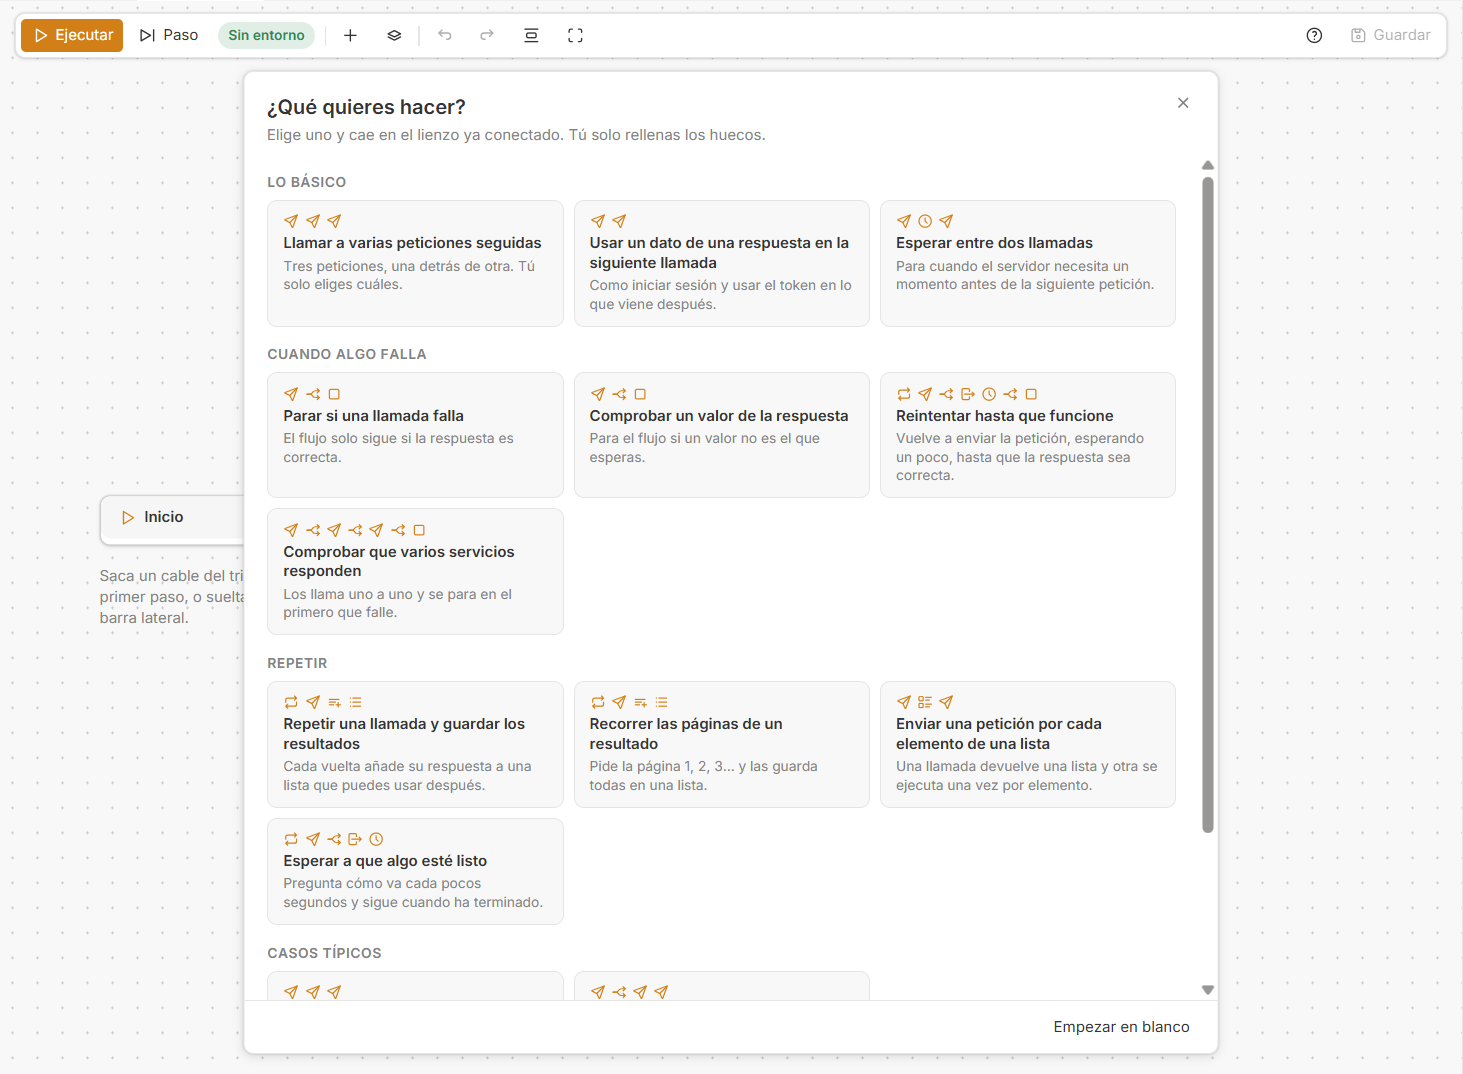
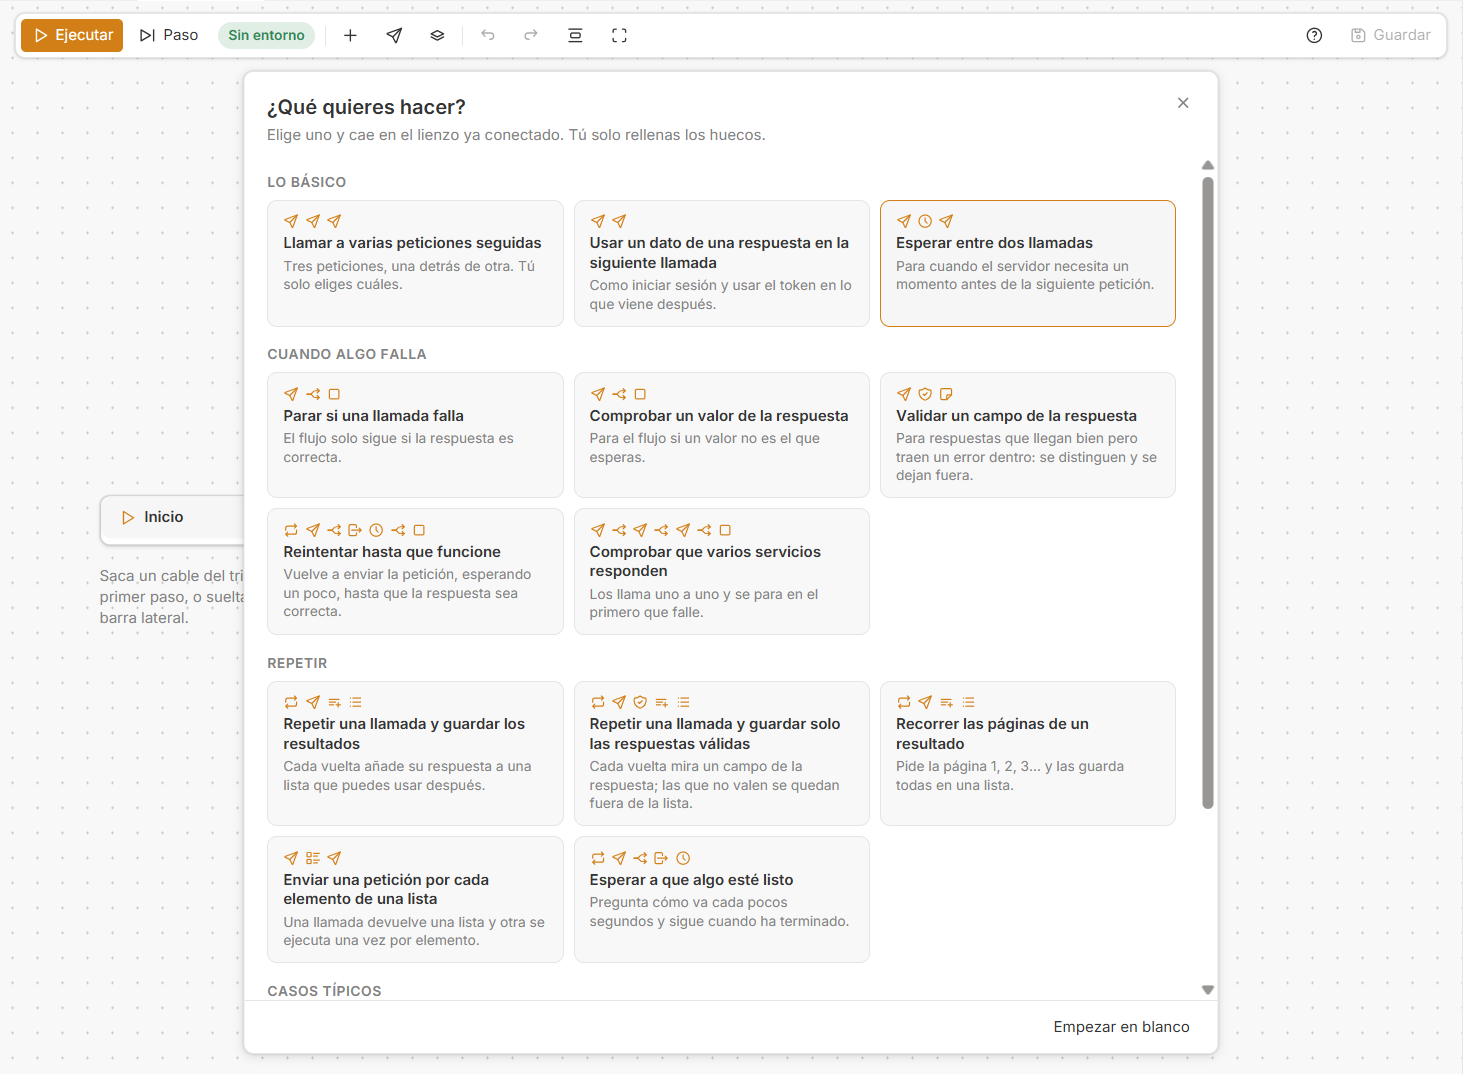
docs(flows): validar, añadir por clases, botón derecho y cables, con capturas nuevas

diff --git a/fork/docs/funciones/flows.md b/fork/docs/funciones/flows.md
@@ -10,9 +10,10 @@ Para empezar a usarla sin leer todo esto está la [guía rápida](flows-guia.md)
 
 1. En la sección **Flows**, el botón **+** pide un nombre y, si se quiere, una carpeta. El flow se abre en una pestaña con su pieza **Start** y pregunta **What do you want to do?**: una galería de bloques ya montados (ver [Los bloques](#los-bloques)). **Start from scratch** la cierra y deja el lienzo vacío.
 2. Añadir pasos, de cualquiera de estas formas:
-   - Tirar de un triángulo y soltar el cable en vacío: sale un selector con los pasos que encajan y las peticiones de la colección. El paso elegido nace ya conectado.
+   - Tirar de un triángulo y soltar el cable en vacío: sale la lista de lo que encaja ahí, y lo elegido nace ya conectado. La lista tiene tres pestañas, para no mezclar cosas distintas: **Steps** (los pasos), **Requests** (las peticiones de la colección, agrupadas por carpeta) y **Blocks** (abre la galería).
    - Arrastrar una petición desde la barra lateral al lienzo.
-   - Doble clic en vacío, o el botón **Add step**.
+   - Doble clic en vacío, o los botones **Add step** y **Add request** de la barra, que abren la misma lista en su pestaña.
+   - Clic con el botón derecho en vacío: un menú ofrece añadir un paso, una petición o un bloque donde está el puntero, y pegar si hay algo copiado.
 3. Conectar valores: cada petición enseña a la izquierda las variables que usa (`{{token}}`) y a la derecha lo que devuelve. Se une una salida con una entrada tirando un cable, o pulsando el cuadrado de la entrada y eligiendo el valor de la lista. En esa lista también se puede escribir el nombre de un campo que todavía no se ha visto (`envios.info.id`): se ofrece en cada paso que entrega campos y, al elegirlo, queda añadido. Con **Add a field** se añade un campo de la respuesta, también anidado, sin haber ejecutado antes (ver [Los campos de una respuesta](#los-campos-de-una-respuesta)).
 4. **Run** ejecuta el flow contra el entorno que se ve al lado del botón. **Step** ejecuta un paso y espera. Si una petición no se puede enviar, la ejecución se queda en ese paso y se retoma con **Continue** o con el botón del propio paso.
 5. **Save** guarda el flow en la colección. Mientras no se guarde, los cambios se conservan al cambiar de pestaña, hasta que se cierre la app.
@@ -24,6 +25,7 @@ Para empezar a usarla sin leer todo esto está la [guía rápida](flows-guia.md)
 | Start | Donde empieza el flow. Siempre hay uno y no se puede borrar |
 | Request | Envía una petición de la colección, igual que desde su pestaña: mismo entorno, mismos scripts y la respuesta queda también en la pestaña de la petición |
 | If | Elige un camino. Comprueba si la última respuesta fue correcta (2xx), si su código es uno concreto, o compara dos valores |
+| Validate | Mira un valor y decide si lo que llegó vale: *Not valid if* [valor] [comparación] [otro valor]. Sigue por **Valid** o por **Not valid**. Es para las respuestas que llegan con un 200 pero traen un código de error dentro: lo que cuelga de **Valid** no las ve. Dentro de un bucle, si de **Not valid** no cuelga nada, la vuelta termina y empieza la siguiente |
 | Repeat | Repite lo que cuelga de *On each round* las veces indicadas. Lo que repite queda dentro de un marco. La vuelta termina cuando el camino se acaba o cuando llega a *End of round* |
 | For each item | Como Repeat, pero da una vuelta por cada elemento de una lista: una lista del flow o un campo de una respuesta que sea una lista. En cada vuelta entrega el elemento (*Item*), los campos suyos que se añadan con *Add a field* y el número de vuelta |
 | Leave loop | Termina el bucle en el que está, aunque le queden vueltas, y el flow sigue por su *When finished*. Sirve para reintentar hasta que algo funcione o esperar a que un proceso termine. Fuera de un bucle lleva un aviso y el flow no se ejecuta |
@@ -57,15 +59,16 @@ Un bloque son varios pasos ya unidos que resuelven algo que se hace a menudo. Se
 |---|---|
 | Al abrir un flow vacío | La galería sale sola |
 | Botón **Blocks** de la barra | Abre y cierra la galería |
-| Selector de pasos | La entrada **Choose a block…** abre la galería, y el bloque elegido queda unido al cable que se había soltado |
+| Lista de añadir | La pestaña **Blocks** abre la galería, y el bloque elegido queda unido al cable que se había soltado |
+| Botón derecho en vacío | **Add a block** abre la galería y el bloque cae donde estaba el puntero |
 
 Bloques que trae Michi:
 
 | Grupo | Bloques |
 |---|---|
 | The basics | Llamar a varias peticiones seguidas · usar un valor de una respuesta en la siguiente llamada · esperar entre dos llamadas |
-| When something fails | Parar si una llamada falla · comprobar un valor de la respuesta · reintentar hasta que funcione · comprobar que varios servicios responden |
-| Repeating | Repetir una llamada y guardar los resultados · recorrer las páginas de un resultado · enviar una petición por cada elemento de una lista · esperar a que algo esté listo |
+| When something fails | Parar si una llamada falla · comprobar un valor de la respuesta · validar un campo de la respuesta · reintentar hasta que funcione · comprobar que varios servicios responden |
+| Repeating | Repetir una llamada y guardar los resultados · repetir una llamada y guardar solo las respuestas válidas · recorrer las páginas de un resultado · enviar una petición por cada elemento de una lista · esperar a que algo esté listo |
 | Typical cases | Crear, comprobar y borrar · crear solo si no existe |
 
 **La guía.** Un bloque de Michi abre abajo a la izquierda la lista de lo que falta por rellenar, en orden. Cada punto se tacha solo cuando el lienzo muestra que está hecho (se eligió la petición, se conectó el valor, se pulsó **Run**), y los que no se pueden comprobar se tachan a mano pulsando su número. El paso al que se refiere cada punto lleva ese número encima; pulsar el texto de un punto lleva a su paso. La guía se cierra con su aspa y no se guarda.
@@ -82,6 +85,9 @@ El botón **?** de la barra abre un panel con lo necesario para leer un flow: qu
 - Mientras se arrastra un cable solo se iluminan los puertos donde encaja.
 - Conectar un valor a un paso que no tiene orden propio ya hace que se ejecute después: no hace falta unir además los triángulos.
 - Los cables van siempre en ángulo recto. Se les da forma arrastrando cualquier tramo; tirar del primero o del último crea un codo nuevo. Doble clic en un cable lo devuelve a su forma normal.
+- Los cables a los que nadie ha dado forma se reparten solos: no van unos encima de otros y giran donde menos se cruzan. Donde dos se cruzan, uno se ve pasar por encima del otro.
+- **Colores.** Los cables de orden llevan el color principal; los que salen de **Yes** o **Valid** van en verde y los de **No** o **Not valid** en rojo. Cada paso que entrega valores tiene un color propio, que llevan sus cables, sus salidas y las entradas y fichas a las que llegan: así se ve de dónde viene un valor sin seguir la línea.
+- Al dejar el ratón sobre un paso sus cables se resaltan y los demás se atenúan. Seleccionar un paso o un cable también resalta los suyos.
 
 ### Moverse por el lienzo
 
@@ -89,6 +95,7 @@ El botón **?** de la barra abre un panel con lo necesario para leer un flow: qu
 |---|---|
 | Seleccionar varios pasos | Arrastrar sobre el fondo, o `Ctrl` + clic |
 | Mover el lienzo | Arrastrar con el botón derecho o central, o `Alt` + arrastrar |
+| Añadir donde está el puntero | Clic con el botón derecho, sin arrastrar |
 | Acercar y alejar | Rueda del ratón |
 | Borrar | `Supr` con pasos o un cable seleccionados |
 | Deshacer y rehacer | `Ctrl+Z`, `Ctrl+Y` |
@@ -132,7 +139,7 @@ Todo el código está en `packages/bruno-app/src/components/fork/Flows/` y en `p
 | Carpeta | Qué contiene |
 |---|---|
 | `engine/` | El motor: en qué orden van los pasos (`graph.js`), qué hace cada uno (`nodes.js`) y la ejecución con pausa, paso a paso y reanudación (`run.js`). No sabe nada de la app: las peticiones salen por un `host` que se le pasa |
-| `canvas/` | El lienzo sin React: descripción de cada pieza y sus puertos (`pieces.js`), edición del flow (`editing.js`), trazado de cables (`routing.js`), colocación sin solapes y ordenar (`layout.js`), deshacer (`history.js`), lectura de las peticiones de la colección (`requests.js`) y contenido de los selectores (`pickers.js`). Más los componentes `Piece`, `Cables`, `Picker` y `Toolbar` |
+| `canvas/` | El lienzo sin React: descripción de cada pieza y sus puertos (`pieces.js`), edición del flow (`editing.js`), trazado de cables (`routing.js`), colocación sin solapes y ordenar (`layout.js`), deshacer (`history.js`), lectura de las peticiones de la colección (`requests.js`) contenido de los selectores (`pickers.js`) y colores de los cables (`colors.js`). Más los componentes `Piece`, `Cables`, `Picker`, `ContextMenu` y `Toolbar` |
 | `fields/` | Qué campos tiene la respuesta de una petición antes de enviarla: rutas y posiciones en listas (`paths.js`), lectura de documentos OpenAPI (`spec.js`), lectura de los scripts como texto (`script.js`), lo recordado entre sesiones (`memory.js`) y el observador que anota cada respuesta que llega (`watch.js`, instalado desde `ForkRoot`) |
 | `FlowCanvas/` | El componente que junta lo anterior: selección, arrastres, zoom, teclado y soltar desde la barra lateral |
 | `blocks/` | Los bloques: el catálogo de los que trae Michi (`catalog.js`), cómo se montan, se insertan y se guardan los propios (`building.js`), la guía y cómo sabe que un punto está hecho (`guide.js`), los bloques de cada colección (`store.js`) y los componentes `Gallery`, `GuidePanel`, `HelpPanel` y `SaveBlockModal` |

diff --git a/fork/docs/funciones/flows-guia.md b/fork/docs/funciones/flows-guia.md
@@ -30,6 +30,21 @@ Un flow encadena peticiones que ya tienes en la colección. Si la petición toda
 
 Si prefieres empezar sin bloque, pulsa **Empezar en blanco**. La galería vuelve cuando quieras con el botón **Bloques**.
 
+## Añadir cosas al flow
+
+Hay tres clases de cosas, y cada una tiene su lista:
+
+| Qué | Dónde |
+|---|---|
+| **Pasos** (Si, Validar, Repetir, Esperar…) | Botón **Añadir paso** |
+| **Peticiones** de la colección, por carpetas | Botón **Añadir petición** |
+| **Bloques** ya montados | Botón **Bloques** |
+
+- **Clic derecho** en un hueco del lienzo ofrece las tres, y lo que elijas cae donde estaba el puntero.
+- Si tiras de un **triángulo** y sueltas el cable en vacío sale la misma lista, con sus tres pestañas, y lo que elijas queda ya unido.
+
+![La lista de añadir, con sus pestañas](../img/flows-anadir.png)
+
 ## Qué bloque elijo
 
 | Quiero… | Bloque | Lo que relleno |
@@ -39,9 +54,11 @@ Si prefieres empezar sin bloque, pulsa **Empezar en blanco**. La galería vuelve
 | Dar tiempo al servidor entre dos llamadas | Esperar entre dos llamadas | Las dos peticiones y los segundos |
 | Que el flow no siga si algo responde mal | Parar si una llamada falla | La petición |
 | Asegurarme de que un valor es el que espero | Comprobar un valor de la respuesta | La petición, el valor y lo que debería valer |
+| Dejar fuera las respuestas que llegan bien pero traen un error dentro | Validar un campo de la respuesta | La petición, el campo que hay que mirar y el valor que significa que no vale |
 | Insistir hasta que una llamada funcione | Reintentar hasta que funcione | La petición, cuántos intentos y cuánto espera |
 | Ver que varios servicios están vivos | Comprobar que varios servicios responden | Una petición por servicio |
 | Hacer la misma llamada varias veces y quedarme con todo | Repetir una llamada y guardar los resultados | La petición y cuántas veces |
+| Repetir una llamada y quedarme solo con las que salieron bien | Repetir una llamada y guardar solo las respuestas válidas | La petición, el campo que hay que mirar, el valor que no vale y cuántas veces |
 | Traer todas las páginas de un listado | Recorrer las páginas de un resultado | La petición y de dónde sale el número de página |
 | Hacer una llamada por cada elemento de un listado | Enviar una petición por cada elemento de una lista | La petición que da la lista, dónde está la lista y la petición que se repite |
 | Esperar a que un proceso termine | Esperar a que algo esté listo | La petición que dice cómo va y el valor que significa "listo" |
@@ -59,6 +76,8 @@ Un bloque es un punto de partida: después puedes añadir, quitar o cambiar paso
 - Un paso **atenuado** no está unido a **Inicio** y no se ejecuta. Sirve para dejar piezas de reserva.
 - Un paso con **aviso naranja** dice debajo lo que le falta. Mientras haya avisos, **Ejecutar** no envía nada.
 - Lo que un **Repetir** repite queda dentro de un marco.
+- **Colores de los cables:** naranja es el orden; **verde** lo que sale de *Sí* o *Válido* y **rojo** lo que sale de *No* o *No válido*. Los valores llevan el color del paso del que salen, y ese mismo color lo tienen la entrada y la ficha a las que llegan.
+- Deja el ratón sobre un paso y sus cables se resaltan mientras los demás se apagan: es la forma rápida de seguir un flow con muchos cables.
 
 El botón **?** de la barra abre este mismo resumen dentro de la app, con las teclas.
 
@@ -93,6 +112,19 @@ Si aun así no está, escribe su nombre: `datos.numero`.
 ![Un campo de una lista, con la ficha que dice qué elemento lee](../img/flows-posicion.png)
 
 Para hacer algo con **todos** los elementos, usa el paso **Por cada elemento**.
+
+## Cuando llega un 200 con un error dentro
+
+Hay servicios que contestan 200 y dentro traen un código que dice que no se hizo nada. Para que el flow no trate esa respuesta como buena está el paso **Validar**:
+
+1. Ponlo detrás de la petición.
+2. Pulsa el cuadrado de **No válido si** y elige el campo que hay que mirar, por ejemplo el código de retorno.
+3. Elige la comparación y escribe el valor: *no es igual a* `0`.
+4. De **Válido** saca lo que usa la respuesta (guardarla en una lista, la llamada siguiente). De **No válido**, lo que quieras que pase en ese caso, o nada.
+
+Dentro de un **Repetir**, si de **No válido** no cuelga nada, esa vuelta se acaba ahí y empieza la siguiente: la respuesta mala no se guarda y el flow sigue.
+
+![Una ejecución en la que Validar deja fuera la respuesta que traía un error](../img/flows-validar.png)
 
 ## Ejecutar
 
